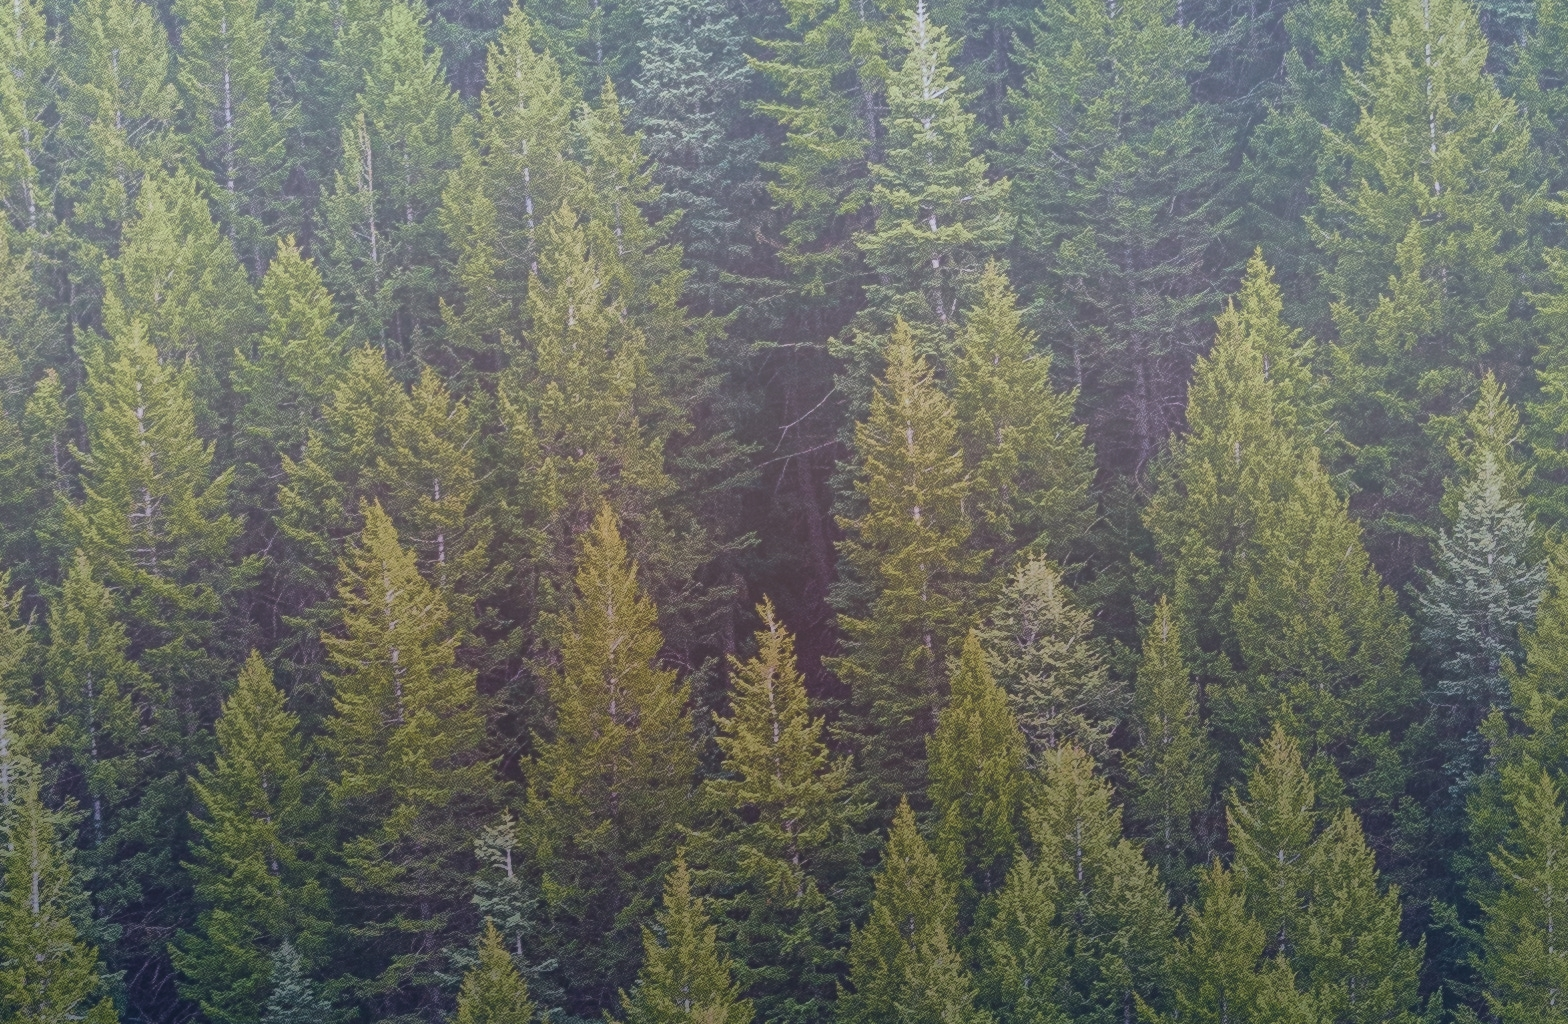
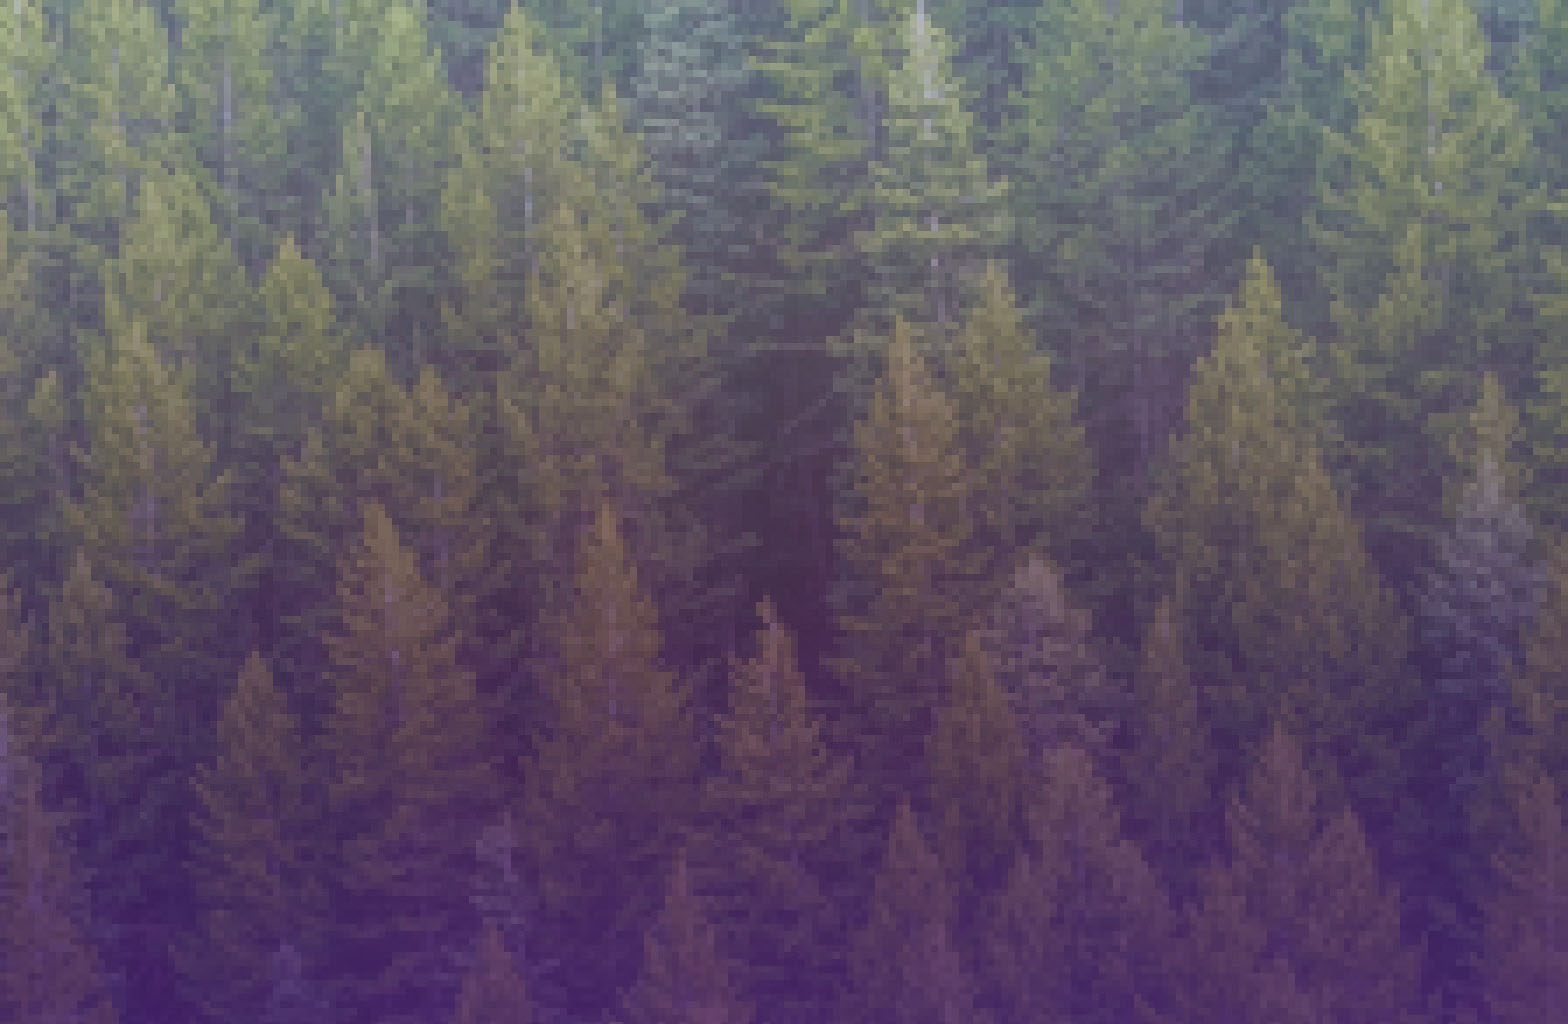
Background, Navbar & Pages
- Pixelated Background and added a purple gradient to it.
- Changed the content of the navbar to seperate work
- Added descriptions on all pages

diff --git a/index.html b/index.html
@@ -26,14 +26,15 @@
 							<div class="inner">
 								<h1>Ben Nilsson</h1>
 								<p>Welcome To My Portfolio. </br>
-									Danish Amateur Aspiring Games Developer - <a href="https://twitter.com/StaffsUni" target="_blank">@StaffsUni</a> Student</p>
+									Danish Aspiring Games Developer - <a href="https://twitter.com/StaffsUni" target="_blank">@StaffsUni</a> Student</p>
 							</div>
 						</div>
 						<nav>
 							<ul>
-								<li><a href="#intro">Intro</a></li>
-								<li><a href="#educational">Work</a></li>
-								<li><a href="#about">About</a></li>
+								<li><a href="#intro">About</a></li>
+								<li><a href="#personalwork">Personal Projects</a></li>
+								<li><a href="#gamejams">Game Jams</a></li>
+								<li><a href="#educational">Educational Work</a></li>
 								<!-- Please re-enable if hosted with PHP<li><a href="#contact">Contact</a></li>-->
 								<!-- Formatting stuff, useful<li><a href="#elements">Elements</a></li>-->
 							</ul>
@@ -47,86 +48,59 @@
 							<article id="intro">
 								<h2 class="major">Intro</h2>
 								<span class="image intro"><img src="images/profile-picture.jpg" alt="" /></span>
-								<p>Aenean ornare velit lacus, ac varius enim ullamcorper eu. Proin aliquam facilisis ante interdum congue. Integer mollis, nisl amet convallis, porttitor magna ullamcorper, amet egestas mauris. Ut magna finibus nisi nec lacinia. Nam maximus erat id euismod egestas. By the way, check out my <a href="#work">awesome work</a>.</p>
-								<p>Lorem ipsum dolor sit amet, consectetur adipiscing elit. Duis dapibus rutrum facilisis. Class aptent taciti sociosqu ad litora torquent per conubia nostra, per inceptos himenaeos. Etiam tristique libero eu nibh porttitor fermentum. Nullam venenatis erat id vehicula viverra. Nunc ultrices eros ut ultricies condimentum. Mauris risus lacus, blandit sit amet venenatis non, bibendum vitae dolor. Nunc lorem mauris, fringilla in aliquam at, euismod in lectus. Pellentesque habitant morbi tristique senectus et netus et malesuada fames ac turpis egestas. In non lorem sit amet elit placerat maximus. Pellentesque aliquam maximus risus, vel sed vehicula.</p>
-							</article>
+								<p>Hi, my name is Benjamin Nilsson. I am a games developer enthusiast who decided to make a major change in life and move out of country to persue my passion for creating games. I am currently a student at Staffordshire University, studying Computer Games Development full time.</p>
 
-						<!-- Work -->
-							<article id="work">
-								<h2 class="major">Work</h2>
-								<div id="nav-work">
-									<nav >
-										<ul>
-											<li><a href="#educational">Educational Work</a></li>
-											<li><a href="#gamejams">Game Jams</a></li>
-											<li><a href="#personalwork">Personal Work</a></li>
-										</ul>
-									</nav>
-								</div>
-								<p>Adipiscing magna sed dolor elit. Praesent eleifend dignissim arcu, at eleifend sapien imperdiet ac. Aliquam erat volutpat. Praesent urna nisi, fringila lorem et vehicula lacinia quam. Integer sollicitudin mauris nec lorem luctus ultrices.</p>
-								<p>Nullam et orci eu lorem consequat tincidunt vivamus et sagittis libero. Mauris aliquet magna magna sed nunc rhoncus pharetra. Pellentesque condimentum sem. In efficitur ligula tate urna. Maecenas laoreet massa vel lacinia pellentesque lorem ipsum dolor. Nullam et orci eu lorem consequat tincidunt. Vivamus et sagittis libero. Mauris aliquet magna magna sed nunc rhoncus amet feugiat tempus.</p>
+								<p>I spend the majority of my free time thinking of what projects to work on next, exploring multiple fields within the games industry, researching and expanding my knowledge within the field of games programming but most importantly, I am a games addict who loves a good title. My true dream is quite simple: I wish to create a game which I personally would be able to play several hours a day without getting bored. I believe that if a games developer can achieve that, they must have done well at some point.</p>
+
+								<p>Thank you for checking out my portfolio! Consider having a look at some of <strong><a href="#gamejams">My Projects!</a></strong></p>
 							</article>
 
 						<!-- Educational Work -->
 							<article id="educational">
-								<h2 class="major">Educational Work</h2>
-								<nav>
-									<ul>
-										<li><a href="#educational">Educational Work</a></li>
-										<li><a href="#gamejams">Game Jams</a></li>
-										<li><a href="#personalwork">Personal Work</a></li>
-									</ul>
-								</nav>
-								<h2 class="major">Pacman</h2>
-								<span class="image main"><img src="images/Pacman.png" alt="" /></span>
-								<p>Adipiscing magna sed dolor elit. Praesent eleifend dignissim arcu, at eleifend sapien imperdiet ac. Aliquam erat volutpat. Praesent urna nisi, fringila lorem et vehicula lacinia quam. Integer sollicitudin mauris nec lorem luctus ultrices.</p>
+								<h1 class="major">Educational Work</h1>
+								<h2>Pacman Clone</h2>
+								<iframe class="image main" height="415" src="https://www.youtube-nocookie.com/embed/XpJW_H2AzEU" frameborder="0" allow="accelerometer; autoplay; encrypted-media; gyroscope; picture-in-picture" allowfullscreen></iframe>
+								<p>During the first semester of our first year at university (level 4), we were assessed to create a Pacman clone in which I attempted be as close to the original as I could get without any prior experience in C++ whatsoever. As a first project, I am extremely proud of how far I get and it is definently a proof to myself of where my passion lies at. I am incredibly excited to continue my development within games</p>
+								<hr>
 
-								<h2 class="major">PLACEHOLDER</h2>
+								<h2>PLACEHOLDER</h2>
 								<span class="image main"><img src="images/pic02.jpg" alt="" /></span>
 								<p>Adipiscing magna sed dolor elit. Praesent eleifend dignissim arcu, at eleifend sapien imperdiet ac. Aliquam erat volutpat. Praesent urna nisi, fringila lorem et vehicula lacinia quam. Integer sollicitudin mauris nec lorem luctus ultrices.</p>
 							</article>
 
 						<!-- Game Jams -->
 							<article id="gamejams">
-								<h2 class="major">Game Jams</h2>
-								<nav>
-									<ul>
-										<li><a href="#educational">Educational Work</a></li>
-										<li><a href="#gamejams">Game Jams</a></li>
-										<li><a href="#personalwork">Personal Work</a></li>
-									</ul>
-								</nav>
-								<h2 class="major">Steve and Dave's <br>Grassland Adventures</h2>
+								<h1 class="major">Game Jams</h1>
+								<h2>Steve and Dave's <br>Grassland Adventures</h2>
 								<span class="image main"><img src="images/steveanddave.png" alt="" /></span>
-								<p>Adipiscing magna sed dolor elit. Praesent eleifend dignissim arcu, at eleifend sapien imperdiet ac. Aliquam erat volutpat. Praesent urna nisi, fringila lorem et vehicula lacinia quam. Integer sollicitudin mauris nec lorem luctus ultrices.</p>
+								<p>Other than being the first ever team-work based project I created, Steve and Dave's Grassland Adventures was a really fun project to work on. We set a scope too big and had to drop plans but ended up creating a functioning side-scrolling RPG with a Combat System, Enemy AI, Dialog System and much more. My contribution towards this project was all of the programming aspects done using C# as well as teaching the engine to co-member of the team.</p>
+								<p><i>Tools & Software used: Unity 2018</i><p>
 								<p><a href="https://kotie.itch.io/grassland-adventures" target="_blank">View Project Here</a></p>
+								<hr>
 
-								<h2 class="major">Vix</h2>
-								<span class="image main"><img src="images/Vix.png" alt="" /></span>
-								<p>Adipiscing magna sed dolor elit. Praesent eleifend dignissim arcu, at eleifend sapien imperdiet ac. Aliquam erat volutpat. Praesent urna nisi, fringila lorem et vehicula lacinia quam. Integer sollicitudin mauris nec lorem luctus ultrices.</p>
+								<h2>Vix</h2>
+								<iframe class="image main" height="415" src="https://www.youtube-nocookie.com/embed/VO99aTzcH8Q" frameborder="0" allow="accelerometer; autoplay; encrypted-media; gyroscope; picture-in-picture" allowfullscreen></iframe>
+								<p>Vix is a 3D exploratin-based game set in a city's alleyways. The project was my first attempt at using the Unreal Engine. Coming in with no prior experience within the engine, I was tasked to work on small Blue Print related tasks as well as outlining the level, building the level as well as cinematics. This was truely an amazing experience as it expanded my horizon within game engines.</p>
+								<p><i>Tools & Software used: Unreal Engine 4.23.1</i><p>
 								<p><a href="https://no-fox-given.itch.io/vix" target="_blank">View Project Here</a></p>
+								<hr>
 
-								<h2 class="major">Dad's Dream</h2>
+								<h2>Dad's Dream</h2>
 								<span class="image main"><img src="images/dadsdream.png" alt="" /></span>
-								<p>Adipiscing magna sed dolor elit. Praesent eleifend dignissim arcu, at eleifend sapien imperdiet ac. Aliquam erat volutpat. Praesent urna nisi, fringila lorem et vehicula lacinia quam. Integer sollicitudin mauris nec lorem luctus ultrices.</p>
+								<p>With only 8 hours left of the Global Game Jam 2018 and me scratching my project, I decided to work on Dad's Dream: A top-down 2D collection game where you, the son, is asked to collect several items spawning around the room by your father. My aim with this project was to make a silly yet fun game and it had great response from many participants at the game jam site. A true focus on gameplay.</p>
+								<p><i>Tools & Software used: Unity 2018</i><p>
 								<p><a href="https://kotie.itch.io/dads-dream" target="_blank">View Project Here</a></p>
 							</article>
 
 						<!-- Personal Work -->
 							<article id="personalwork">
-								<h2 class="major">Personal Work</h2>
-								<nav>
-									<ul>
-										<li><a href="#educational">Educational Work</a></li>
-										<li><a href="#gamejams">Game Jams</a></li>
-										<li><a href="#personalwork">Personal Work</a></li>
-									</ul>
-								</nav>
-								<h2 class="major">PLACEHOLDER</h2>
+								<h1 class="major">Personal Work</h1>
+								<h2>PLACEHOLDER</h2>
 								<span class="image main"><img src="images/pic02.jpg" alt="" /></span>
 								<p>Adipiscing magna sed dolor elit. Praesent eleifend dignissim arcu, at eleifend sapien imperdiet ac. Aliquam erat volutpat. Praesent urna nisi, fringila lorem et vehicula lacinia quam. Integer sollicitudin mauris nec lorem luctus ultrices.</p>
+								<hr>
 
-								<h2 class="major">PLACEHOLDER</h2>
+								<h2>PLACEHOLDER</h2>
 								<span class="image main"><img src="images/pic02.jpg" alt="" /></span>
 								<p>Adipiscing magna sed dolor elit. Praesent eleifend dignissim arcu, at eleifend sapien imperdiet ac. Aliquam erat volutpat. Praesent urna nisi, fringila lorem et vehicula lacinia quam. Integer sollicitudin mauris nec lorem luctus ultrices.</p>
 							</article>
@@ -139,6 +113,9 @@
 							</article>
 
 						<!-- Contact -->
+						<!-- I have included a contact form linked to a PHP document which would allow emails to be sent from within the form.
+							Sadly, GitHub Pages does not allow you to host PHP on their servers and this will therefore be enabled
+							once I have found an alternative way of hosting my site -->
 							<article id="contact">
 								<h2 class="major">Contact</h2>
 								<form method="post" action="submit.php">

diff --git a/assets/css/main.css b/assets/css/main.css
@@ -112,7 +112,7 @@ input, select, textarea {
 /* Type */
 
 	html {
-		font-size: 16pt;
+		font-size: 14pt;
 	}
 
 		@media screen and (max-width: 1680px) {
@@ -205,7 +205,7 @@ input, select, textarea {
 	}
 
 	h2 {
-		font-size: 1.5rem;
+		font-size: 1.85rem;
 		line-height: 1.4;
 		letter-spacing: 0.5rem;
 	}
@@ -284,6 +284,7 @@ input, select, textarea {
 
 	hr {
 		border: 0;
+		opacity: 0.1;
 		border-bottom: solid 1px #ffffff;
 		margin: 2.75rem 0;
 	}
